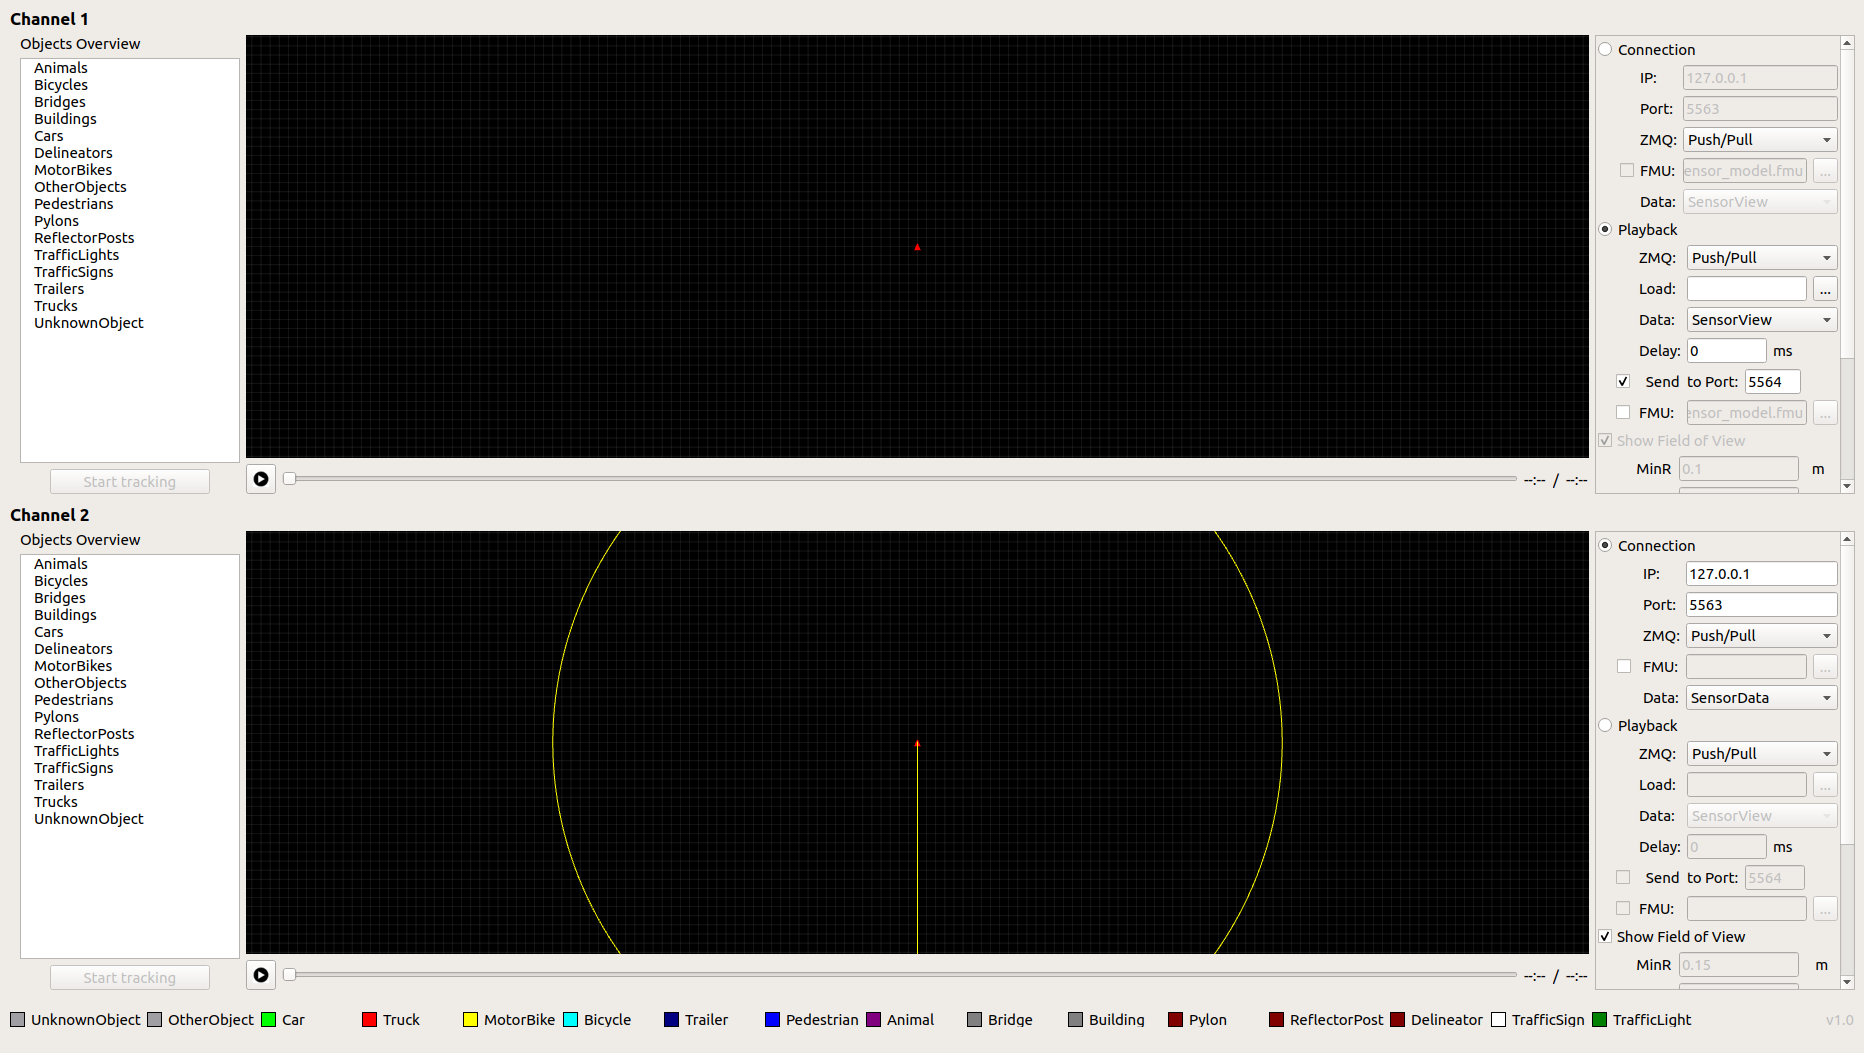
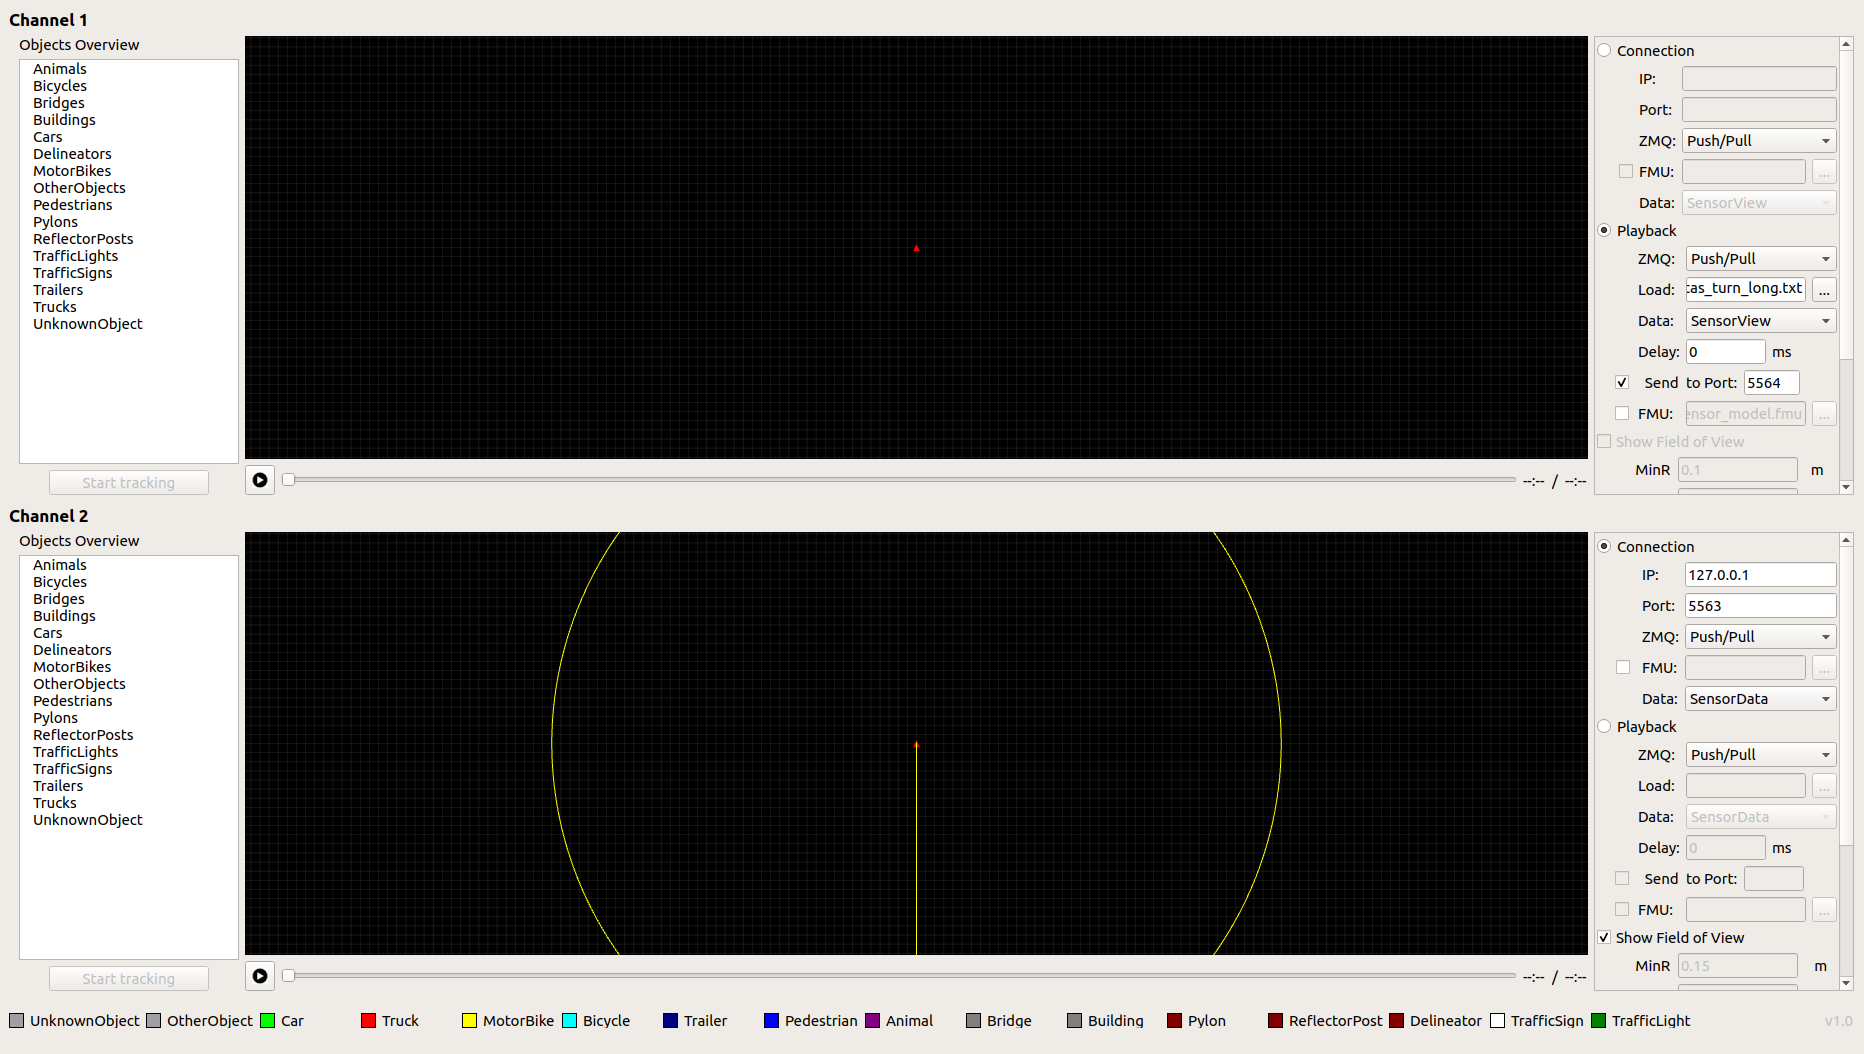
Corrected ports, added new demo image and added a bit more info on usage

diff --git a/README.md b/README.md
@@ -5,11 +5,11 @@ OSI Visualizer serves as a visualization tool for the current implementation of 
 
 ## Usage
 
-Use the configuration panel at the right (see Screenshot below) to load a playback file or stream for channel 1 and choose a port to which it will be send. Enter the host and input port for channel 2 in the panel below. Select the data type it is expected to visualize (here `SensorData`). Make sure the appropriate communication server for the data exchange is up and running. 
+Use the configuration panel at the right (see Screenshot below) to load a playback file or stream for channel 1 at `Playback` and choose a port to which it will be send (here 5564). Select the data type `SensorView` accordingly. After that enter into the IP field the `localhost` and into the port field the receiving port (here 5563) for channel 2 in the panel below at `Connection`. Select the data type it is expected to visualize (here `SensorData`). Make sure the appropriate communication server for the data exchange is up and running with specification of the used ports. 
 
 ![](Resources/Images/Over_View.png)
 
-Now you can click on play for channel 1 and 2 and you can visualize the communication between these two channels. Channel 1 plays an OSI input file and sends out the OSI message to port 5564 at the same time. Channel 2 receives an OSI message from port 5564 showing it on the canvas (see demo screenshot below).
+Now you can click on play for channel 1 and 2 and you can visualize the communication between these two channels. Channel 1 plays the selected OSI input file scenario and sends out the OSI message to port 5564 at the same time. Channel 2 visualizes the received OSI messages at `localhost` at port 5563 showing it on the canvas (see demo screenshot below).
 
 ![](Resources/Images/Demo.png)
 
